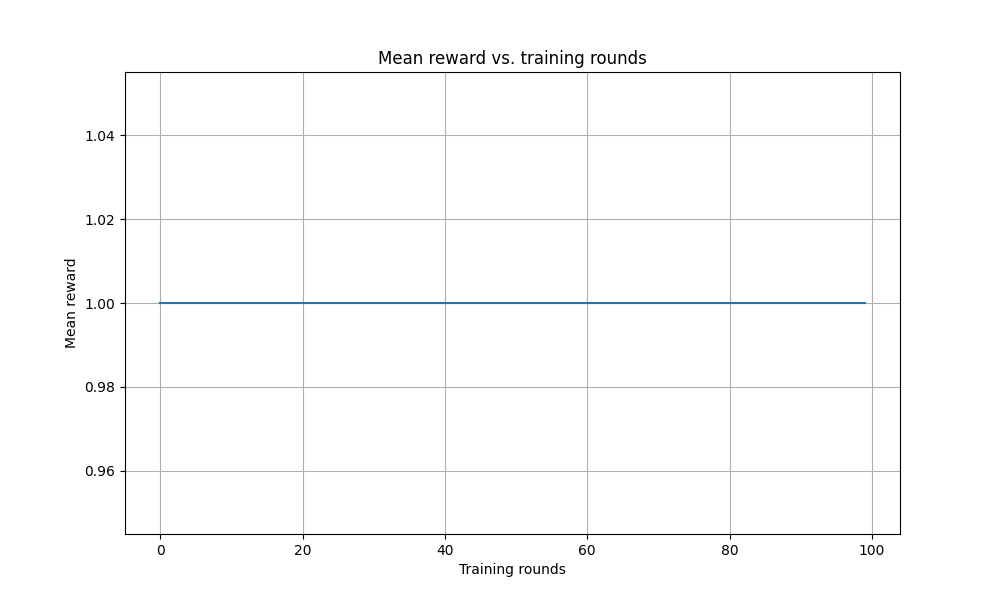
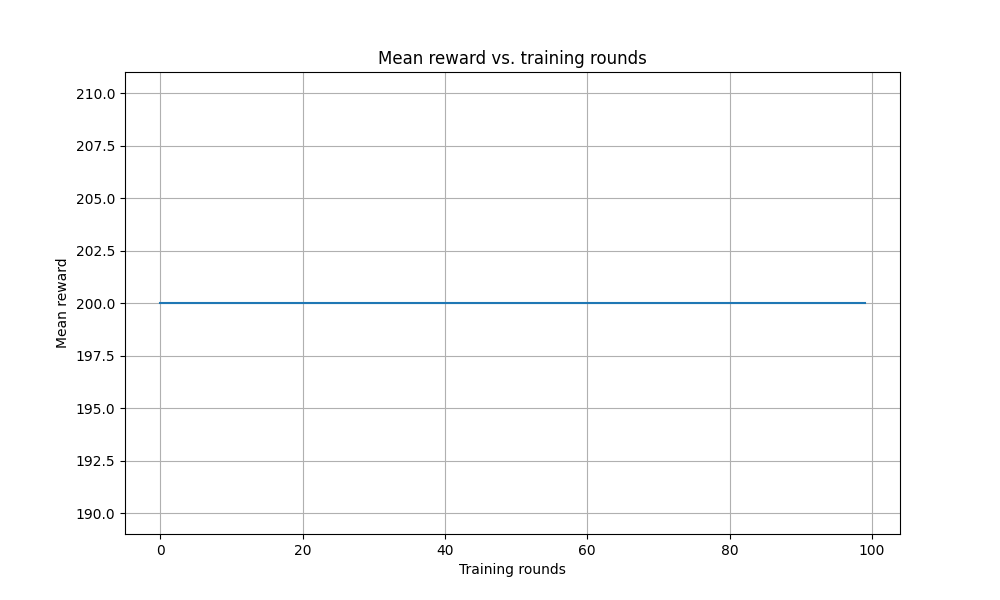
added version two without logging coade bloat

diff --git a/src/learned_cartpole2.py b/src/learned_cartpole2.py
@@ -1,0 +1,104 @@
+import math
+from typing import Union, Optional, Tuple
+import pickle
+import os
+from pathlib import Path
+import logging
+
+import numpy as np
+import torch
+import torch.nn as nn
+import torch.nn.functional as F
+
+import gymnasium as gym
+from gymnasium.envs.classic_control import CartPoleEnv
+from gymnasium import spaces
+from gymnasium.error import DependencyNotInstalled
+
+# Set up logger
+logger = logging.getLogger(__name__)
+
+class DynamicsNetwork(nn.Module):
+    def __init__(self, state_dim: int, action_dim: int, hidden_dim: int):
+        super(DynamicsNetwork, self).__init__()
+        self.fc1 = nn.Linear(state_dim + action_dim, hidden_dim)
+        self.fc2 = nn.Linear(hidden_dim, hidden_dim)
+        self.fc3 = nn.Linear(hidden_dim, state_dim)
+        
+    def forward(self, state, action):
+        x = torch.cat([state, action], dim=1)
+        x = F.relu(self.fc1(x))
+        x = F.relu(self.fc2(x))
+        x = self.fc3(x)
+        return x
+
+
+class CartPole_Learned2(CartPoleEnv):
+    metadata = {
+        "render_modes": ["human", "rgb_array"],
+        "render_fps": 50,
+    }
+    
+    def __init__(self, dynamics_path: Optional[str] = None, hidden_dim: int = 64, render_mode: Optional[str] = None):
+        super().__init__(render_mode=render_mode)
+        
+        # Set default model path if none provided
+        if dynamics_path is None:
+            dynamics_path = str(Path("model/team_blue_model.pkl"))
+            
+        # Initialize dynamics network
+        if os.path.exists(dynamics_path):
+            try:
+                with open(dynamics_path, 'rb') as f:
+                    self.dynamics = pickle.load(f)
+                logger.info(f"Successfully loaded dynamics model from {dynamics_path}")
+            except Exception as e:
+                logger.warning(f"Failed to load dynamics model from {dynamics_path}: {e}")
+                self.dynamics = DynamicsNetwork(
+                    state_dim=4,
+                    action_dim=1,
+                    hidden_dim=hidden_dim
+                )
+        else:
+            logger.warning(f"Dynamics model not found at {dynamics_path}, using untrained network")
+            self.dynamics = DynamicsNetwork(
+                state_dim=4,
+                action_dim=1,
+                hidden_dim=hidden_dim
+            )
+        
+        self.dynamics.eval()
+        
+    def step(self, action: int) -> Tuple[np.ndarray, float, bool, bool, dict]:
+        with torch.no_grad():
+            # Normalize state for network input
+            state_tensor = torch.FloatTensor(self.state).unsqueeze(0)
+            action_tensor = torch.FloatTensor([[action]])
+            
+            # Predict next state using dynamics network
+            next_state = self.dynamics(state_tensor, action_tensor)
+            self.state = next_state.squeeze().numpy()
+            
+            # Ensure state is within bounds
+            self.state = np.clip(
+                self.state,
+                self.observation_space.low,
+                self.observation_space.high
+            )
+            
+            # Check if episode is done
+            x, x_dot, theta, theta_dot = self.state
+            done = bool(
+                x < -self.x_threshold
+                or x > self.x_threshold
+                or theta < -self.theta_threshold_radians
+                or theta > self.theta_threshold_radians
+            )
+            
+            # Simple reward: 1 for each step
+            reward = 1.0
+            
+            if self.render_mode == "human":
+                self.render()
+                
+            return self.state, reward, done, False, {} 

diff --git a/src/learned_agent.py b/src/learned_agent.py
@@ -15,7 +15,7 @@ import signal
 from contextlib import contextmanager
 from gymnasium.wrappers import TimeLimit
 
-from learned_cartpole import CartPole_Learned
+from learned_cartpole2 import CartPole_Learned2
 
 # Suppress all warnings
 warnings.filterwarnings("ignore")
@@ -61,8 +61,10 @@ with SuppressOutput():
 
 # Register our custom environment with RLlib
 def env_creator(env_config):
-    env = CartPole_Learned(**env_config)
+    env = CartPole_Learned2(**env_config)
     env.spec = gym.spec("CartPole-v1")
+    #env.spec.max_episode_steps = 200  # Set max episode stepsenv = TimeLimit(env, max_episode_steps=1000)
+    env = TimeLimit(env, max_episode_steps=200)
     return env
 
 # Register environment
@@ -158,7 +160,7 @@ plt.savefig("mean_reward_vs_training_rounds_learned.png")
 plt.close()
 
 # Visualize trained agent
-env = CartPole_Learned(render_mode="rgb_array")
+env = CartPole_Learned2(render_mode="rgb_array")
 s, _ = env.reset()
 done = False
 cumulative_reward = 0

diff --git a/README.md b/README.md
@@ -1,6 +1,6 @@
 # Reinforcement Learning with CartPole
 
-A reinforcement learning project based on the classic CartPole environment from OpenAI Gymnasium. This project implements and experiments with various RL algorithms to solve the pole balancing task.
+A reinforcement learning project based on the classic CartPole environment from OpenAI Gymnasium. This project implements learned dynamics models and DQN agents to solve the pole balancing task using neural network-based environment simulation.
 
 ## Overview
 
@@ -33,16 +33,21 @@ The CartPole environment consists of a pole attached by an un-actuated joint to 
 
 ```
 rl_with_nima/
-├── README.md           # This file
-├── CHANGELOG.md        # Version history
-├── requirements.txt    # Python dependencies
-├── src/               # Source code
-│   ├── agents/        # RL agents implementations
-│   ├── environments/  # Custom environment wrappers
-│   └── utils/         # Utility functions
-├── experiments/       # Experiment scripts and configs
-├── models/           # Saved models
-└── results/          # Training logs and visualizations
+├── README.md                  # This file
+├── README_smartpull.md        # Git workflow documentation
+├── CHANGELOG.md               # Version history
+├── requirements.txt           # Python dependencies
+├── setup-git-aliases.sh       # Git configuration script
+├── src/                       # Source code
+│   ├── __init__.py           # Package initialization
+│   ├── main.py               # Main experiment runner
+│   ├── random_agent.py       # Random baseline agent
+│   ├── learned_agent.py      # DQN agent with RLlib
+│   ├── learned_cartpole.py   # Learned dynamics CartPole v1
+│   ├── learned_cartpole2.py  # Learned dynamics CartPole v2
+│   └── plot_util.py          # Visualization utilities
+├── model/                     # Trained dynamics models
+└── mean_reward_vs_training_rounds_learned.png  # Training results
 ```
 
 ## Installation
@@ -62,18 +67,54 @@ pip install -r requirements.txt
 
 ## Quick Start
 
-```python
-# Example usage will be added as the project develops
+### 1. Run the Basic Experiment Framework
+```bash
+# Run with random actions (baseline)
+python src/main.py --episodes 10
+
+# Run with rendering enabled
+python src/main.py --episodes 5 --render
+
+# Run with specific seed for reproducibility
+python src/main.py --episodes 10 --seed 123
 ```
 
-## Algorithms
+### 2. Test Random Agent on Learned Environment
+```bash
+python src/random_agent.py
+```
 
-This project will explore various RL algorithms:
-- [ ] Deep Q-Network (DQN)
-- [ ] Policy Gradient Methods
-- [ ] Actor-Critic Methods
-- [ ] PPO (Proximal Policy Optimization)
-- [ ] More to be added...
+### 3. Train DQN Agent with RLlib
+```bash
+python src/learned_agent.py
+```
+
+This will:
+- Train a DQN agent for 100 iterations
+- Show progress with a progress bar
+- Generate a plot of mean rewards over training rounds
+- Visualize the trained agent's performance
+
+## Components
+
+### Environments
+- **CartPole_Learned**: Custom CartPole environment with learned dynamics using neural networks
+- **CartPole_Learned2**: Extended version inheriting from Gymnasium's CartPoleEnv
+
+### Agents
+- **Random Agent**: Baseline agent that takes random actions
+- **DQN Agent**: Deep Q-Network implementation using Ray RLlib with:
+  - Experience replay buffer
+  - Target network updates
+  - Double Q-learning
+  - Dueling network architecture
+
+### Key Features
+- Learned dynamics models using PyTorch neural networks
+- Integration with Ray RLlib for scalable RL training
+- Visualization utilities for environment rendering
+- Progress tracking with tqdm
+- Configurable experiment parameters via CLI
 
 ## Contributing
 

diff --git a/CHANGELOG.md b/CHANGELOG.md
@@ -22,12 +22,37 @@ and this project adheres to [Semantic Versioning](https://semver.org/spec/v2.0.0
   - Command-line arguments for seed, rendering, and episode count
   - Episode statistics tracking and reporting
 
-### Planned
-- Implement base CartPole environment wrapper
-- Add DQN (Deep Q-Network) agent
-- Create training and evaluation scripts
-- Add visualization tools for training progress
-- Implement logging and metrics tracking
+### Changed
+- Updated README.md with complete project structure and usage instructions
+- Enhanced project description to reflect learned dynamics implementation
+
+### Implemented
+- CartPole_Learned: Custom environment with neural network dynamics
+- CartPole_Learned2: Extended version inheriting from Gymnasium's CartPoleEnv
+- DQN agent implementation using Ray RLlib with advanced features:
+  - Double Q-learning
+  - Dueling network architecture
+  - Experience replay buffer
+  - Target network updates
+- Random agent baseline for performance comparison
+- Visualization utilities for environment rendering
+- Training progress tracking with tqdm
+- Comprehensive dependency list in requirements.txt
+
+### Dependencies Added
+- gymnasium>=0.28.1
+- keras~=2.15.0
+- matplotlib>=3.6.3
+- numpy>=1.21.0
+- pandas~=2.2.2
+- pygame>=2.5.0
+- pyglet==2.0.14
+- pylint==3.1.0
+- ray[default]==2.9.3
+- ray[rllib]>=2.9.3
+- tensorflow>=2.15.0
+- torch>=2.7.1
+- tqdm==4.65.0
 
 ## [0.1.0] - 2025-06-15
 
